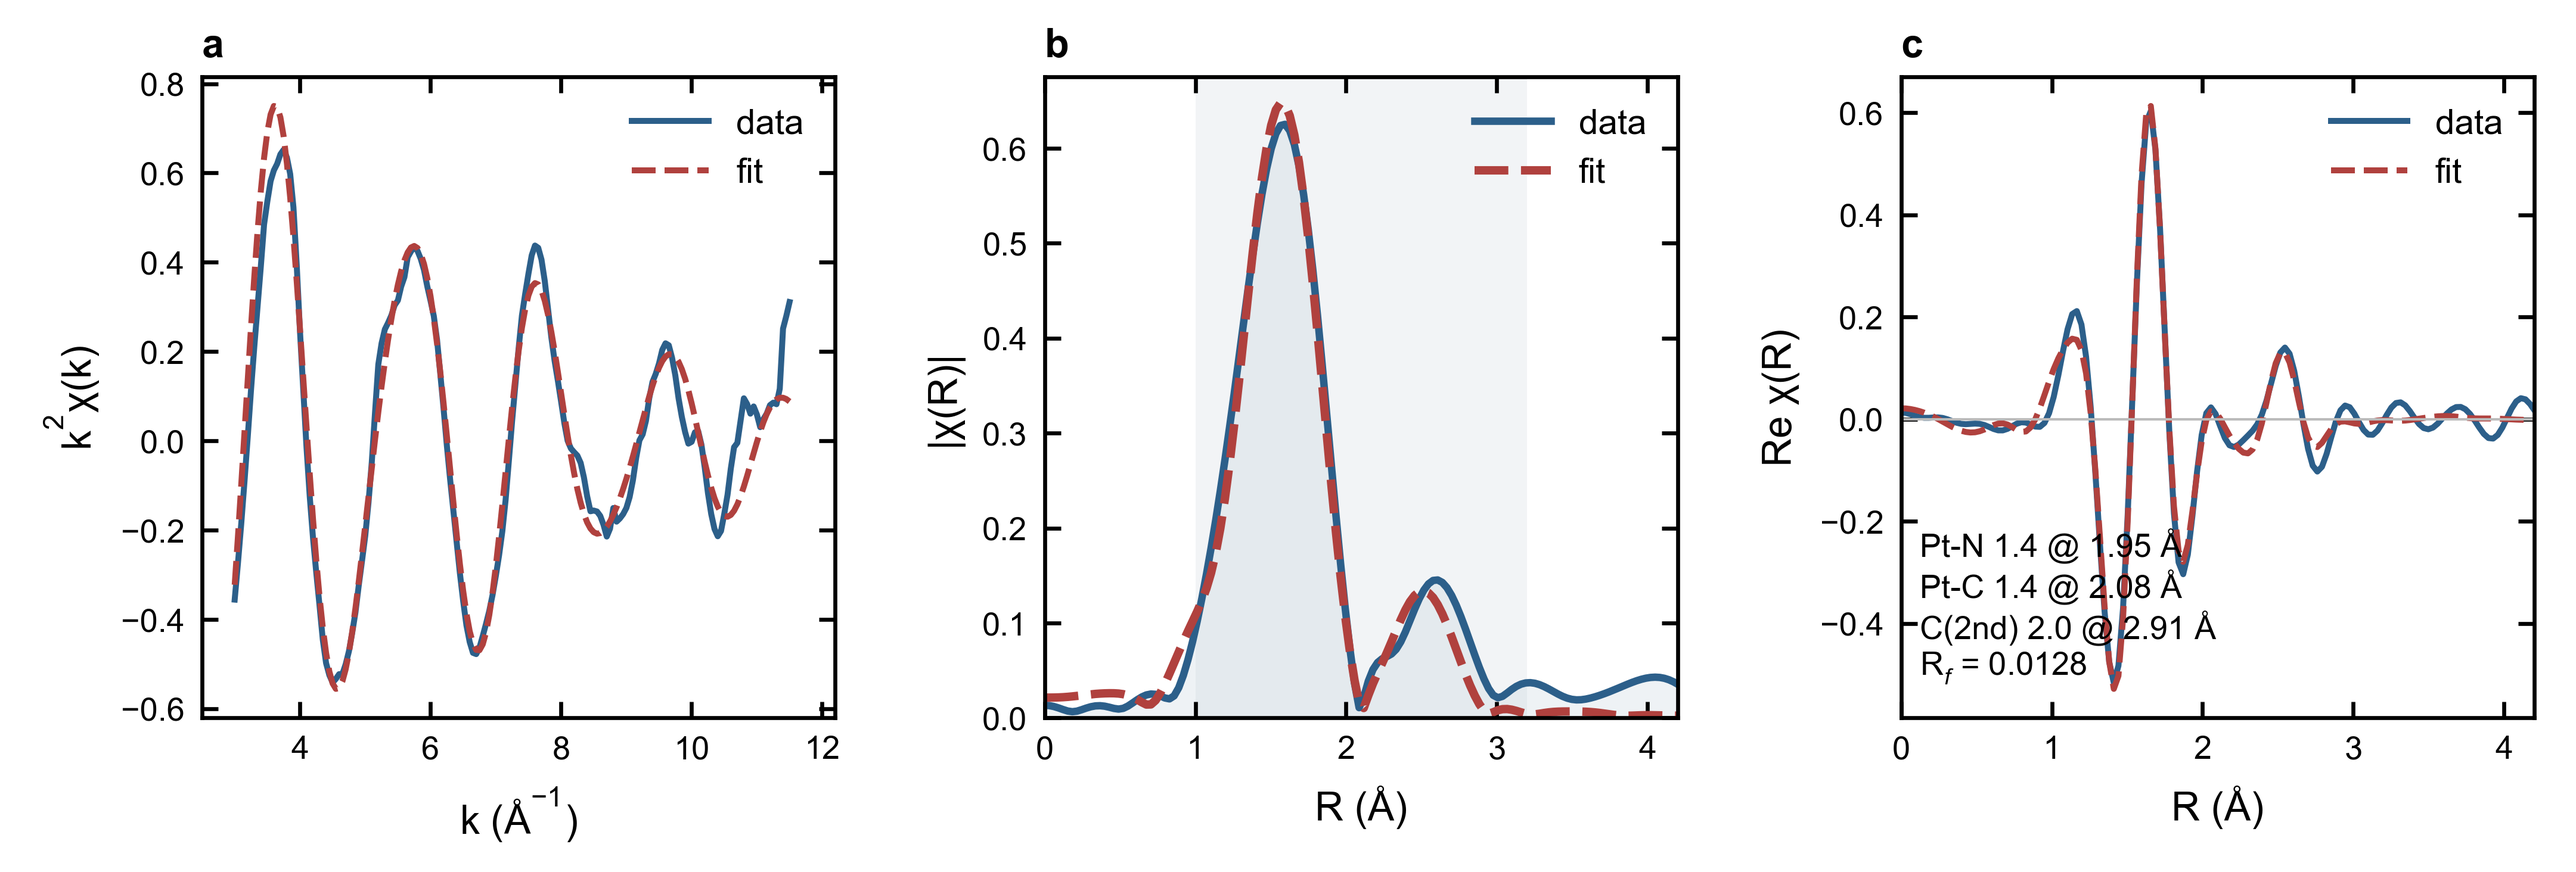
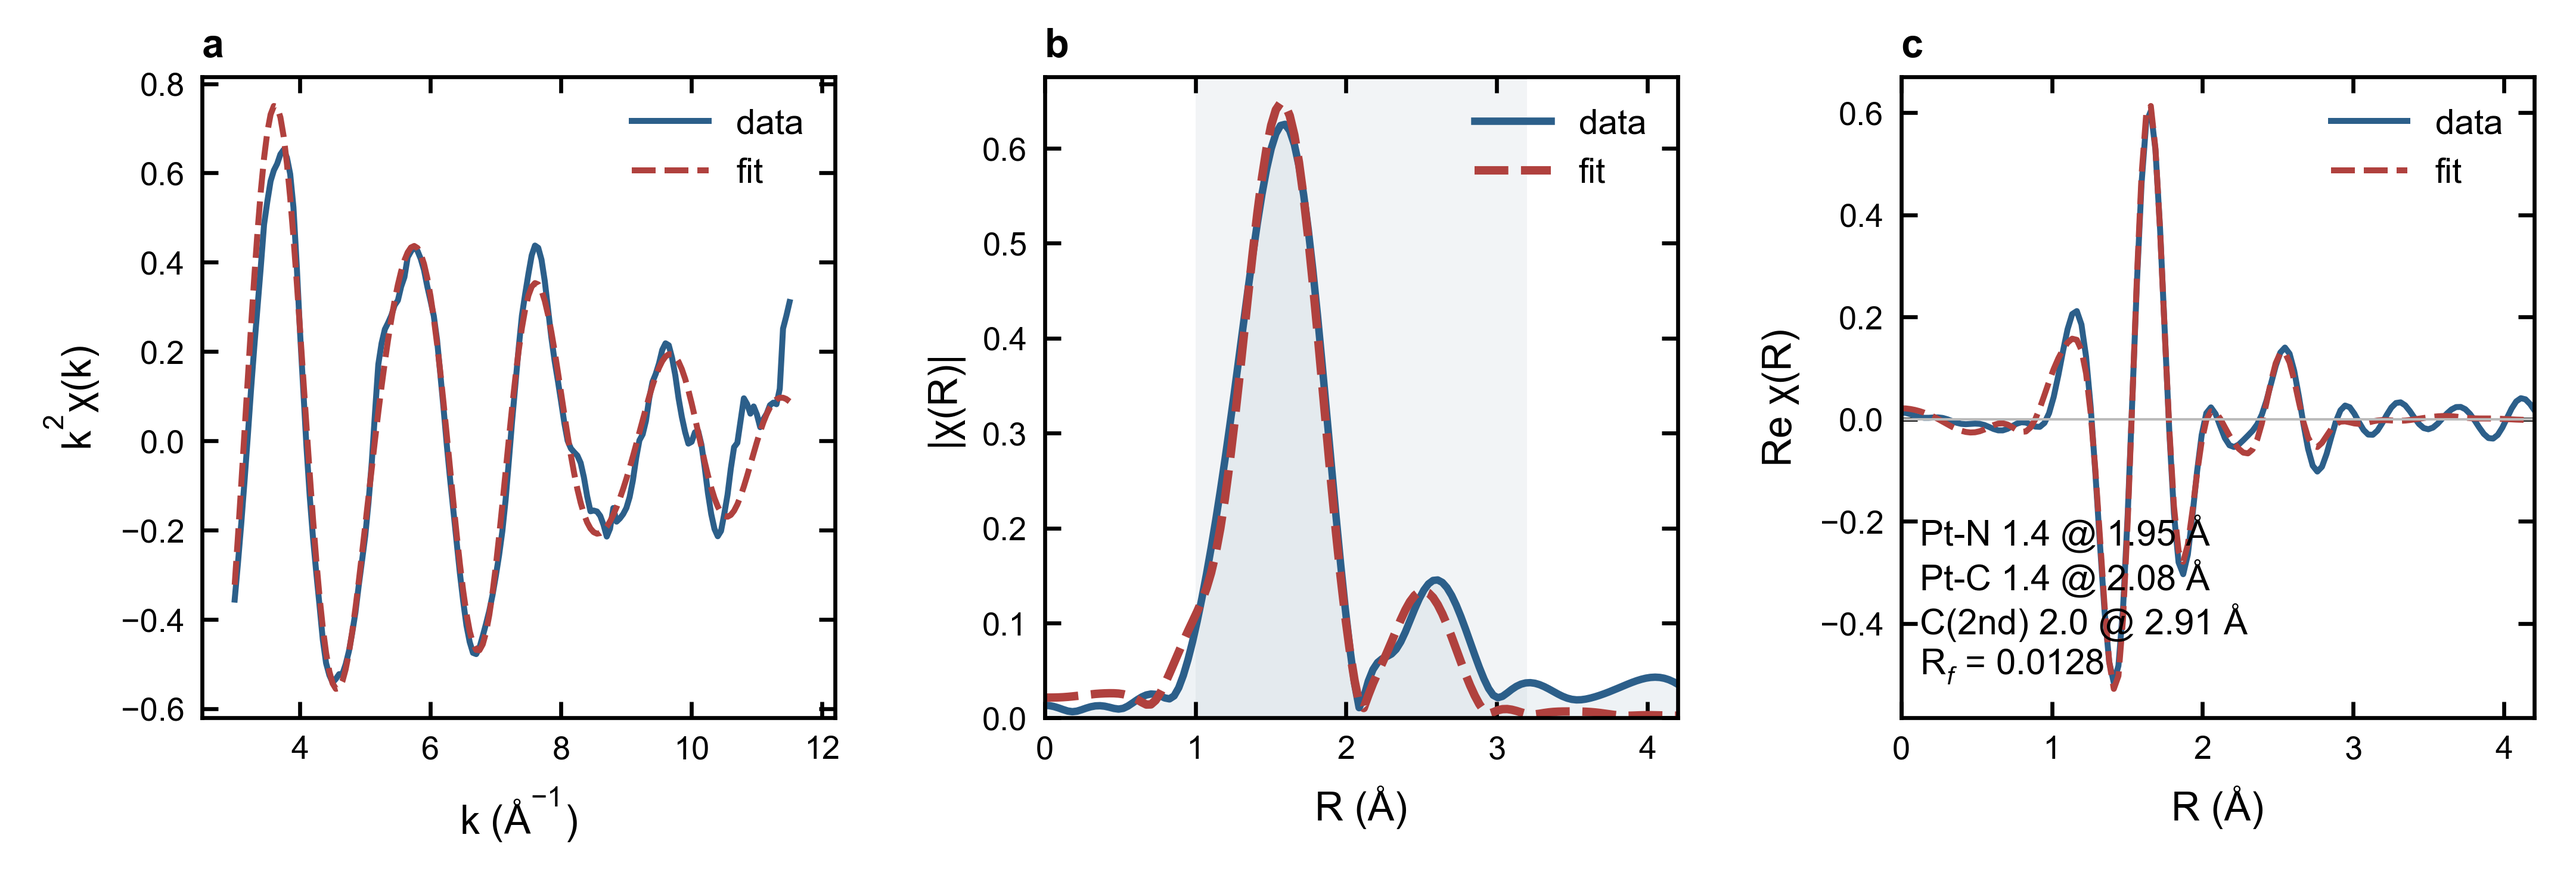
figcheck CLI MVP: submission-readiness audit (GAP G2 P0 delivered)
- six checks: page-ink extents vs MediaBox, font whitelist (SimSun/
  Type3/DejaVu deny), U+2212 minus audit, rendered font-size floor
  (nature=5pt), keyword presence, page physical size sanity
- CI-friendly exit code; --journal presets; --expect keywords
- self-test double kill: caught SimSun in Origin export (expected) AND
  a 4.6pt mathtext subscript in our own triptych (unexpected); bumped
  annotation to 7.2pt -> ALL PASS

Changed region(s): [[0.7497, 0.584, 0.8746, 0.7684]]

diff --git a/code/figcheck/figcheck.py b/code/figcheck/figcheck.py
@@ -1,0 +1,133 @@
+"""figcheck — submission-readiness audit for scientific figures (MVP).
+
+The confirmed open-source gap: post-export verification that a figure
+PDF will survive journal technical screening. Every check below was
+battle-tested manually during this project's NC submission and XAFS
+pipeline; this CLI makes them one command.
+
+Usage:
+    python figcheck.py figure.pdf
+    python figcheck.py figure.pdf --journal nature   # min font 5pt
+    python figcheck.py figure.pdf --expect "Energy" "R (Å)" --json
+
+Checks:
+    1 page-ink      ink extents inside MediaBox (no silent clipping)
+    2 fonts         font whitelist (no SimSun/CJK-body/Type3/DejaVu)
+    3 minus         no ASCII hyphen-minus in numeric text (U+2212 rule)
+    4 font-size     smallest rendered text span >= journal floor
+    5 keywords      --expect strings present in text layer
+    6 size          physical page size sane (>= 40mm, <= 300mm)
+Exit code 0 = all pass, 1 = failures (CI-friendly).
+"""
+from __future__ import annotations
+
+import argparse
+import json
+import sys
+from pathlib import Path
+
+import fitz  # PyMuPDF
+
+FONT_DENYLIST = ("simsun", "simhei", "msyh", "kaiti", "type3", "dejavu")
+JOURNAL_FLOOR_PT = {"nature": 5.0, "advanced-materials": 6.0, "default": 5.0}
+MIN_PAGE_MM, MAX_PAGE_MM = 40.0, 300.0
+MINUS = "\u2212"
+
+
+def check(pdf: Path, journal: str, expects: list[str]) -> dict:
+    doc = fitz.open(str(pdf))
+    results, failures = [], 0
+
+    def record(name, ok, detail):
+        nonlocal failures
+        results.append({"check": name, "pass": bool(ok), "detail": detail})
+        if not ok:
+            failures += 1
+
+    for pno, page in enumerate(doc, start=1):
+        # 1 page-ink: rendering ink bounding box vs page box
+        pix = page.get_pixmap(dpi=72, colorspace=fitz.csGRAY)
+        import numpy as np
+        img = np.frombuffer(pix.samples, dtype=np.uint8).reshape(pix.height, pix.width)
+        ink = img < 200
+        if ink.any():
+            rows, cols = ink.nonzero()
+            m = (pix.width / page.rect.width, pix.height / page.rect.height)
+            ink_rect = fitz.Rect(cols.min() / m[0], rows.min() / m[1],
+                                 cols.max() / m[0], rows.max() / m[1])
+            margin_pt = 1.5 * 72 / 25.4
+            clipped = (ink_rect.x0 < -0.5 or ink_rect.y0 < -0.5 or
+                       ink_rect.x1 > page.rect.width + 0.5 or
+                       ink_rect.y1 > page.rect.height + 0.5)
+            record("page-ink", not clipped,
+                   f"p{pno}: ink {ink_rect.width/72*25.4:.0f}x"
+                   f"{ink_rect.height/72*25.4:.0f}mm inside "
+                   f"{page.rect.width/72*25.4:.0f}x{page.rect.height/72*25.4:.0f}mm")
+        else:
+            record("page-ink", False, f"p{pno}: NO INK (blank page?)")
+
+        # 2 fonts whitelist
+        fonts = sorted({f[3] for f in page.get_fonts()})
+        bad = [f for f in fonts
+               if any(d in f.lower() for d in FONT_DENYLIST)]
+        record("fonts", not bad, f"p{pno}: {fonts}" + (f" DENY: {bad}" if bad else ""))
+
+        # 3 minus sign audit (numeric contexts with ASCII hyphen)
+        text = page.get_text()
+        import re
+        ascii_minus_nums = re.findall(r"\d-\d|\d-\.", text)
+        record("minus", not ascii_minus_nums,
+               f"p{pno}: {len(ascii_minus_nums)} ASCII-minus numerics "
+               + (ascii_minus_nums[:4].__str__() if ascii_minus_nums else "(U+2212 ok)"))
+
+        # 4 font-size floor on real text spans
+        floor = JOURNAL_FLOOR_PT[journal]
+        smallest, smallest_txt = 99.0, ""
+        for block in page.get_text("dict")["blocks"]:
+            for line in block.get("lines", []):
+                for span in line["spans"]:
+                    if span["text"].strip() and span["size"] < smallest:
+                        smallest = span["size"]
+                        smallest_txt = span["text"][:24]
+        record("font-size", smallest >= floor,
+               f"p{pno}: min {smallest:.1f}pt vs floor {floor}pt "
+               f"(\"{smallest_txt}\")")
+
+        # 5 keywords
+        if expects:
+            missing = [e for e in expects if e not in text]
+            record("keywords", not missing,
+                   f"p{pno}: " + ("all present" if not missing else f"missing {missing}"))
+
+    # 6 page size sanity
+    r = doc[0].rect
+    w_mm, h_mm = r.width / 72 * 25.4, r.height / 72 * 25.4
+    record("size", MIN_PAGE_MM <= w_mm <= MAX_PAGE_MM and
+           MIN_PAGE_MM <= h_mm <= MAX_PAGE_MM,
+           f"{w_mm:.0f}x{h_mm:.0f}mm")
+    doc.close()
+    return {"failures": failures, "results": results}
+
+
+def main(argv=None):
+    ap = argparse.ArgumentParser(description="submission-readiness audit")
+    ap.add_argument("pdf", type=Path)
+    ap.add_argument("--journal", default="default",
+                    choices=sorted(JOURNAL_FLOOR_PT))
+    ap.add_argument("--expect", nargs="*", default=[])
+    ap.add_argument("--json", action="store_true")
+    a = ap.parse_args(argv)
+    rep = check(a.pdf, a.journal, a.expect)
+    if a.json:
+        print(json.dumps(rep, ensure_ascii=False, indent=1))
+    else:
+        for r in rep["results"]:
+            mark = "PASS" if r["pass"] else "FAIL"
+            print(f"[{mark}] {r['check']:10} {r['detail']}")
+        print("RESULT:", "ALL PASS" if rep["failures"] == 0
+              else f"{rep['failures']} FAILURE(S)")
+    sys.exit(0 if rep["failures"] == 0 else 1)
+
+
+if __name__ == "__main__":
+    main()

diff --git a/skills/sci-figure-plot/recipes/xafs_final_threepath.py b/skills/sci-figure-plot/recipes/xafs_final_threepath.py
@@ -138,8 +138,8 @@ ax.text(0.03, 0.05,
         f"Pt-N {cn['N']:.1f} @ {r_['N']:.2f} " + chr(197) + "\n"
         f"Pt-C {cn['C1']:.1f} @ {r_['C1']:.2f} " + chr(197) + "\n"
         f"C(2nd) {cn['C2']:.1f} @ {r_['C2']:.2f} " + chr(197) + "\n"
-        f"R$_f$ = {out.rfactor:.4f}",
-        transform=ax.transAxes, fontsize=6.5, va="bottom")
+        f"R$_f$ = {out.rfactor:.4f}",  # 7.2pt: mathtext subscript >= 5pt floor
+        transform=ax.transAxes, fontsize=7.2, va="bottom")
 ax.set_title("c", loc="left", fontweight="bold", fontsize=8, pad=4)
 
 outfig = HERE / "xafs_good_fit_triptych"

diff --git a/README.md b/README.md
@@ -63,9 +63,19 @@ cp -r sci-figure-skills/skills/* ~/.claude/skills/     # Claude Code
 
 本仓库按 [`growth/CONTRIBUTING.md`](growth/CONTRIBUTING.md) 三通道沉淀：**配方**（这次怎么画成的）→ `skills/*/recipes/`；**教训**（错在哪、规则改了什么）→ SKILL.md 规则增量（能写成断言的必须 CODE 形态）；**数据集形态** → `datasets/DATASET_INDEX.md` 注册。每次实战让仓库单调变强。
 
+## figcheck — 投稿就绪审计 CLI（已发布 MVP）
+
+```bash
+python code/figcheck/figcheck.py figure.pdf --journal nature --expect "Energy (eV)"
+```
+六项检查：页内墨迹 / 字体白名单（抓 SimSun·Type3·DejaVu）/ U+2212 负号 /
+字号实测下限（Nature 5pt）/ 关键词在场 / 页面物理尺寸。CI 友好退出码。
+自测记录：抓到 Origin 导出 SimSun、抓到本仓库自己图的 4.6pt 下标——修复后 ALL PASS。
+
 ## 路线图
 
-不足清单与解决路径见 [`docs/GAP_ANALYSIS.md`](docs/GAP_ANALYSIS.md)（P0：figcheck 审计 CLI——已确认的开源空白；三领域配方库；P1：3D 最小集 PyVista+OVITO）。2D/3D 图型全谱目录与学习路线见 [`docs/CHART_CATALOG.md`](docs/CHART_CATALOG.md)。商业化三层路线见 [`docs/COMMERCIALIZATION.md`](docs/COMMERCIALIZATION.md)。
+不足清单见 [`docs/GAP_ANALYSIS.md`](docs/GAP_ANALYSIS.md)（G2 figcheck ✅ 已交付；
+P0 剩余：谱图族+生物配方库；P1：3D 最小集 PyVista+OVITO）。图型全谱目录见 [`docs/CHART_CATALOG.md`](docs/CHART_CATALOG.md)。商业化三层路线见 [`docs/COMMERCIALIZATION.md`](docs/COMMERCIALIZATION.md)。
 
 ## License
 

diff --git a/CHANGELOG.md b/CHANGELOG.md
@@ -24,6 +24,17 @@
 - 实战背景：Nature Communications 投稿六图 + SI 三图全流程
   （最终坐标系原则、数值一致性校验、QA 闭环均在该投稿中验证）
 
+### 补充（08-18 八批）
+
+- **figcheck CLI MVP 发布**（GAP G2 P0 清偿）：六项投稿就绪审计
+  （页内墨迹/字体白名单/负号/字号实测/关键词/页面尺寸），CI 退出码，
+  `--journal nature` 字号下限档位
+- 自测双杀：抓 Origin 导出 SimSun（预期）+ 抓到本仓库自己三联图的
+  4.6pt mathtext 下标（意外收获——工具审计自己人）；注记升 7.2pt 后
+  ALL PASS
+- 漏项盘点入册：谱图族/生物配方（P0）、注册表提交（P1）、3D（P1）、
+  论文 Fig2 XAFS 升级（待用户决策）、SAXS/原位 XRD（待选）
+
 ### 补充（08-18 七批）
 
 - **"什么才是好拟合"完整答案**（用户二次质疑驱动）：三重贴合金标准
